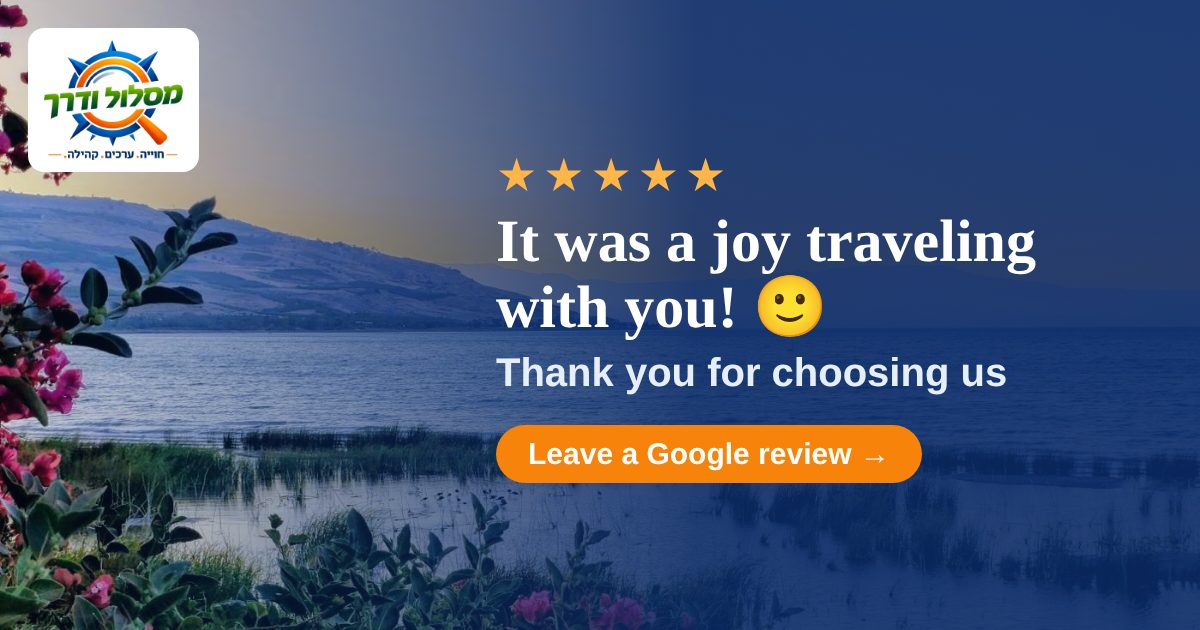
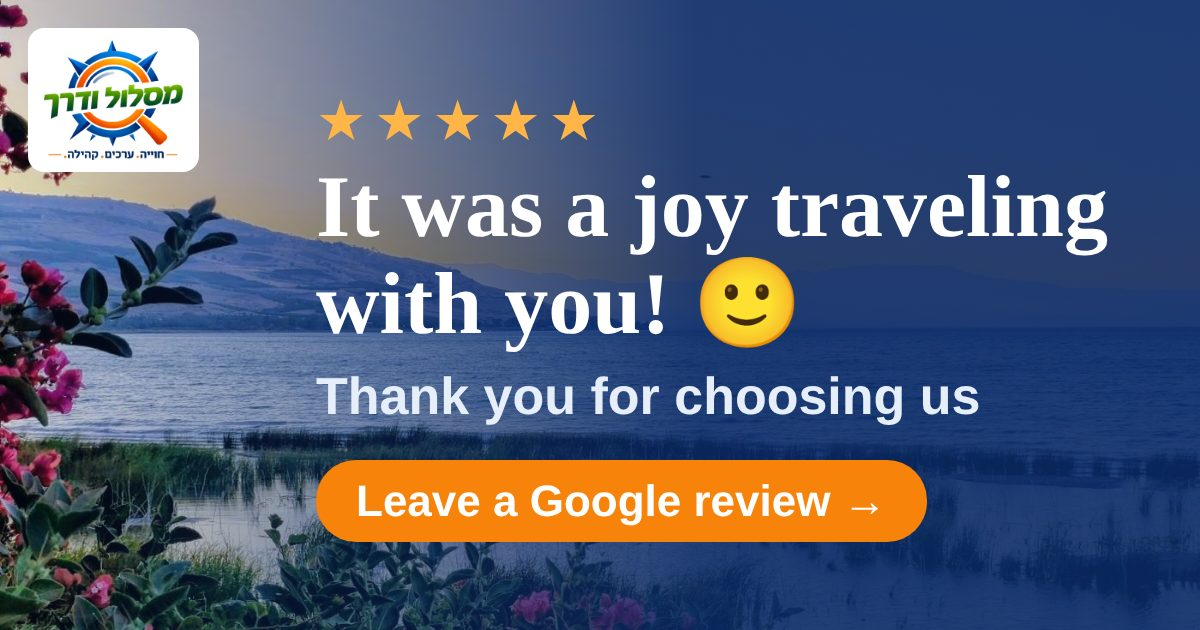
Review cards: larger text on preview images
Claude-Session: https://claude.ai/code/session_019sFTT2aJY1BdiV1sD3hdum

Changed region(s): [[0.2467, 0.1508, 0.925, 0.8746]]

diff --git a/review.html b/review.html
@@ -11,7 +11,7 @@
 <meta property="og:title" content="היי, כאן אשד 👋">
 <meta property="og:description" content="אם העליתי לך חיוך, אשמח לדקה מזמנך למשוב בגוגל. זה עוזר לי מאוד 🙏">
 <meta property="og:url" content="https://maslul-derech.co.il/review">
-<meta property="og:image" content="https://maslul-derech.co.il/share-review.jpg">
+<meta property="og:image" content="https://maslul-derech.co.il/share-review.jpg?v=2">
 <meta property="og:image:width" content="1200">
 <meta property="og:image:height" content="630">
 <meta name="twitter:card" content="summary_large_image">

diff --git a/review-en.html b/review-en.html
@@ -11,7 +11,7 @@
 <meta property="og:title" content="Hi, it's Eshed 👋">
 <meta property="og:description" content="If I made you smile, I'd be grateful if you took a minute to leave a Google review. It really helps 🙏">
 <meta property="og:url" content="https://maslul-derech.co.il/review-en">
-<meta property="og:image" content="https://maslul-derech.co.il/share-review-en.jpg">
+<meta property="og:image" content="https://maslul-derech.co.il/share-review-en.jpg?v=2">
 <meta property="og:image:width" content="1200">
 <meta property="og:image:height" content="630">
 <meta name="twitter:card" content="summary_large_image">
